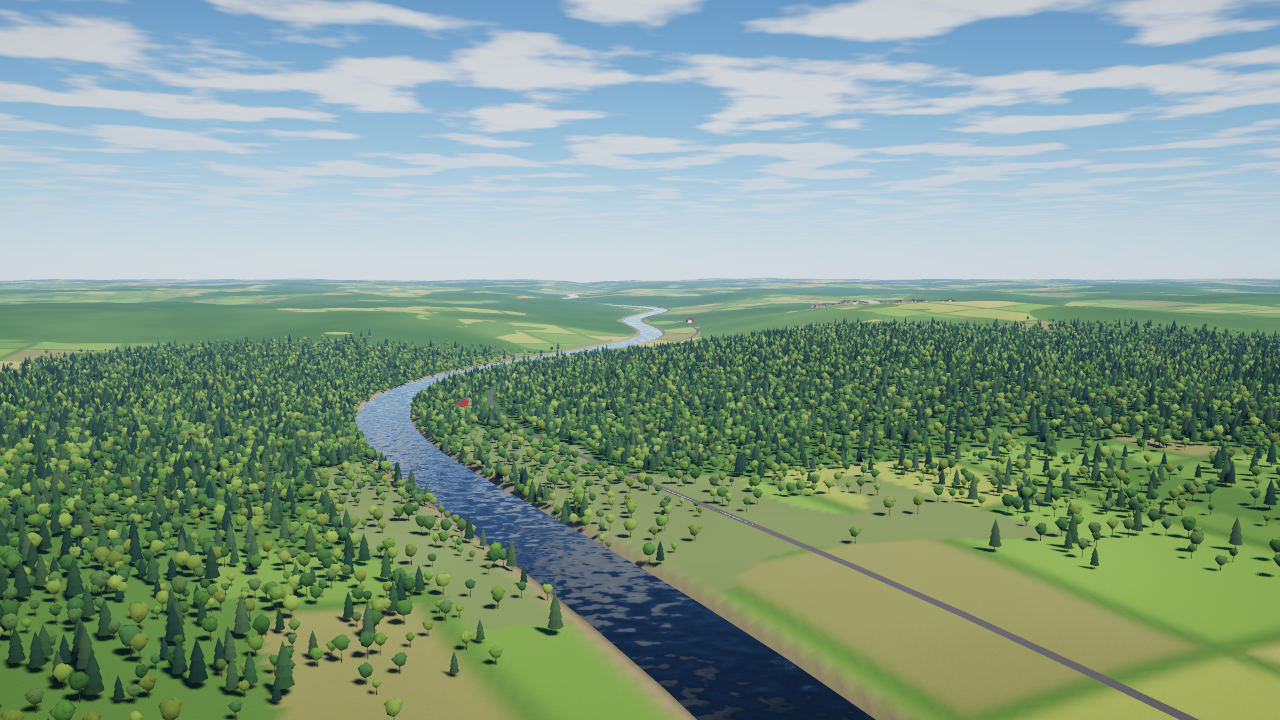
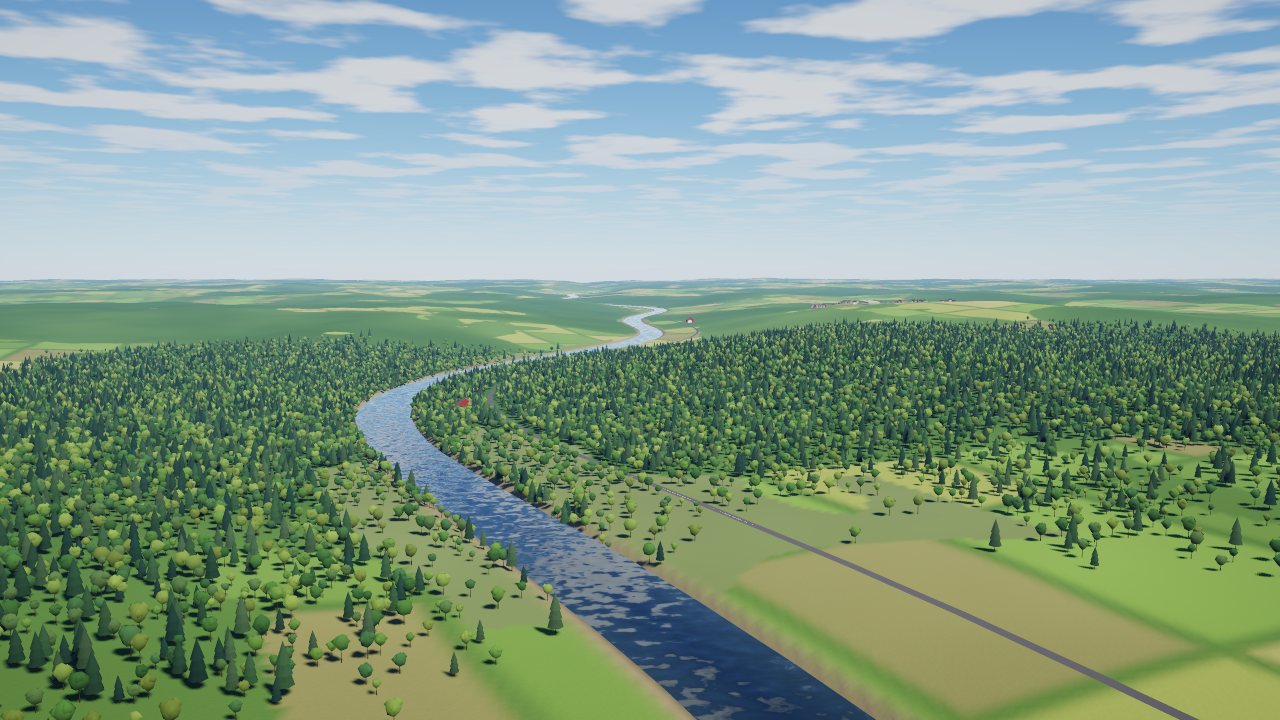
[P1.3] River water: shallow bank tint, varying width, reflection floor
Claude-Session: https://claude.ai/code/session_01LuDJ4arcj2AiLQbMi9mk9u

Changed region(s): [[0.4062, 0.7333, 0.6875, 1.0]]

diff --git a/Packages/SkyforgeKit/Sources/SFPreview/SceneBuilder.swift b/Packages/SkyforgeKit/Sources/SFPreview/SceneBuilder.swift
@@ -213,8 +213,12 @@ public struct SceneBuilder {
             return
         }
         guard let river = terrain.river else { return }
-        // Smooth ribbon along the centre-line, wider than the channel so banks hide the edge.
-        let w = river.width / 2 + 6
+        // Smooth ribbon along the centre-line, wider than the channel so banks hide the edge. Split at
+        // the centre so the banks get a lighter shallow tint, and the width breathes along the river
+        // (art review: uniform dark canal).
+        let w0 = river.width / 2 + 6
+        let shallow: SIMD3<Float> = srgb(66, 82, 64)
+        func width(_ c: SIMD2<Double>) -> Double { w0 * (0.9 + 0.2 * (macroNoise.fbm(c.x / 380 + 11, c.y / 380, octaves: 2) * 0.5 + 0.5)) }
         for i in 0..<(river.points.count - 1) {
             let a = river.points[i], b = river.points[i + 1]
             if ((a - centre) * (a - centre)).sum() > halfExtent * halfExtent * 4 { continue }
@@ -227,11 +231,15 @@ public struct SceneBuilder {
                 let c0 = a + (b - a) * t0, c1 = a + (b - a) * t1
                 let n0 = normalize2(na + (nb - na) * t0), n1 = normalize2(na + (nb - na) * t1)
                 let z0 = terrain.waterHeight(c0.x, c0.y), z1 = terrain.waterHeight(c1.x, c1.y)
-                let q0 = SIMD3(c0.x - n0.x * w, c0.y - n0.y * w, z0), q1 = SIMD3(c1.x - n1.x * w, c1.y - n1.y * w, z1)
-                let q2 = SIMD3(c1.x + n1.x * w, c1.y + n1.y * w, z1), q3 = SIMD3(c0.x + n0.x * w, c0.y + n0.y * w, z0)
-                soup.add(q0, q1, q2, na: up, nb: up, nc: up, colour: deep, material: .water)
-                soup.add(q0, q2, q3, na: up, nb: up, nc: up, colour: deep, material: .water)
-                stats["water", default: 0] += 2
+                let wa = width(c0), wb = width(c1)
+                let q0 = SIMD3(c0.x - n0.x * wa, c0.y - n0.y * wa, z0), q1 = SIMD3(c1.x - n1.x * wb, c1.y - n1.y * wb, z1)
+                let q2 = SIMD3(c1.x + n1.x * wb, c1.y + n1.y * wb, z1), q3 = SIMD3(c0.x + n0.x * wa, c0.y + n0.y * wa, z0)
+                let m0 = SIMD3(c0.x, c0.y, z0), m1 = SIMD3(c1.x, c1.y, z1)
+                soup.add(q0, q1, m1, na: up, nb: up, nc: up, ca: shallow, cb: shallow, cc: deep, material: .water)
+                soup.add(q0, m1, m0, na: up, nb: up, nc: up, ca: shallow, cb: deep, cc: deep, material: .water)
+                soup.add(m0, m1, q2, na: up, nb: up, nc: up, ca: deep, cb: deep, cc: shallow, material: .water)
+                soup.add(m0, q2, q3, na: up, nb: up, nc: up, ca: deep, cb: shallow, cc: shallow, material: .water)
+                stats["water", default: 0] += 4
             }
         }
         _ = step

diff --git a/Packages/SkyforgeKit/Sources/SFPreview/PreviewRenderer.swift b/Packages/SkyforgeKit/Sources/SFPreview/PreviewRenderer.swift
@@ -117,7 +117,10 @@ public enum PreviewRenderer {
                         let body = albedo * (ambient * 0.6 + L.sunColour * max(0, toSun.z) * 0.15)
                         // Wind-roughened open water reflects a blurred, dimmer sky than a mirror would.
                         let reflScale: Float = imagery ? 0.5 : 1
-                        colour = body + (refl * reflScale - body) * min(1, fres * (imagery ? 0.8 : 1))
+                        // Ripples tilt facets toward the horizon, so rough water reflects some sky even seen
+                        // from above (floor 0.10; art review: flat dark river).
+                        let fresEff = imagery ? fres * 0.8 : 0.10 + 0.90 * fres
+                        colour = body + (refl * reflScale - body) * min(1, fresEff)
                     case Material.foliage.rawValue:
                         let wrap = max(0, ndl * 0.55 + 0.45)
                         let back = powf(max(0, fdot(dir, toSun)), 4) * 0.35

diff --git a/docs/VISUAL_LOG.md b/docs/VISUAL_LOG.md
@@ -147,3 +147,4 @@ Open defects (next passes): near-field ground is flat colour (needs detail textu
 - a 5.50, d 5.33, e 5.50, f 5.83, j 4.83 → **5.40** (was 5.30). The rebuilt river is the biggest single gain since anti-aliasing; lobed crowns read as trees.
 - Applied: crease-aware smooth normals (50°) for the aircraft in previews and in Quick Flight, so the fuselage shades smoothly and the GGX lobe can glint.
 - Open: per-pixel parcels with thin hedgerows (d, e), river water shading and width variation (d), airport layout and terrain relief (j), slope detail (f), distant edges (a).
+- River water: ribbon split at the centre with a lighter shallow tint at the banks, width varying ±10 % along the river, and a 10 % reflection floor for wind-roughened water (seen from above it now carries sky colour instead of flat navy).

diff --git a/docs/VERIFICATION_LOG.md b/docs/VERIFICATION_LOG.md
@@ -97,3 +97,4 @@ Every gate run, CI run and manual verification. Newest at the bottom.
 - 2026-11-08T14:51:46Z gate fast on Linux x86_64: PASS (HEAD 7e449cd)
 - 2026-11-08T15:02:26Z gate fast on Linux x86_64: PASS (HEAD 16be5ae)
 - 2026-11-08T15:10:40Z gate fast on Linux x86_64: PASS (HEAD 62d3dab)
+- 2026-11-08T15:18:38Z gate fast on Linux x86_64: PASS (HEAD d8f16dc)
